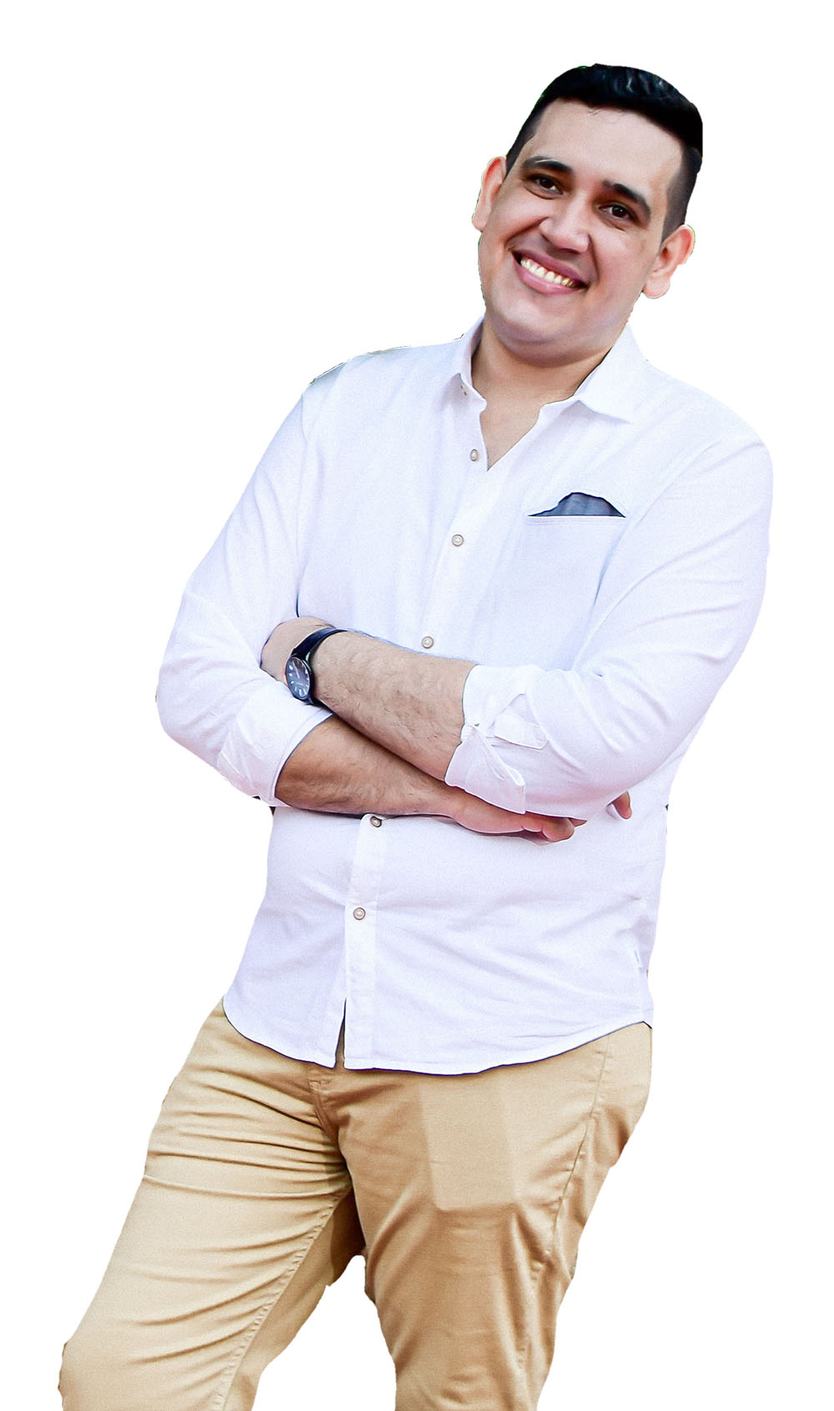
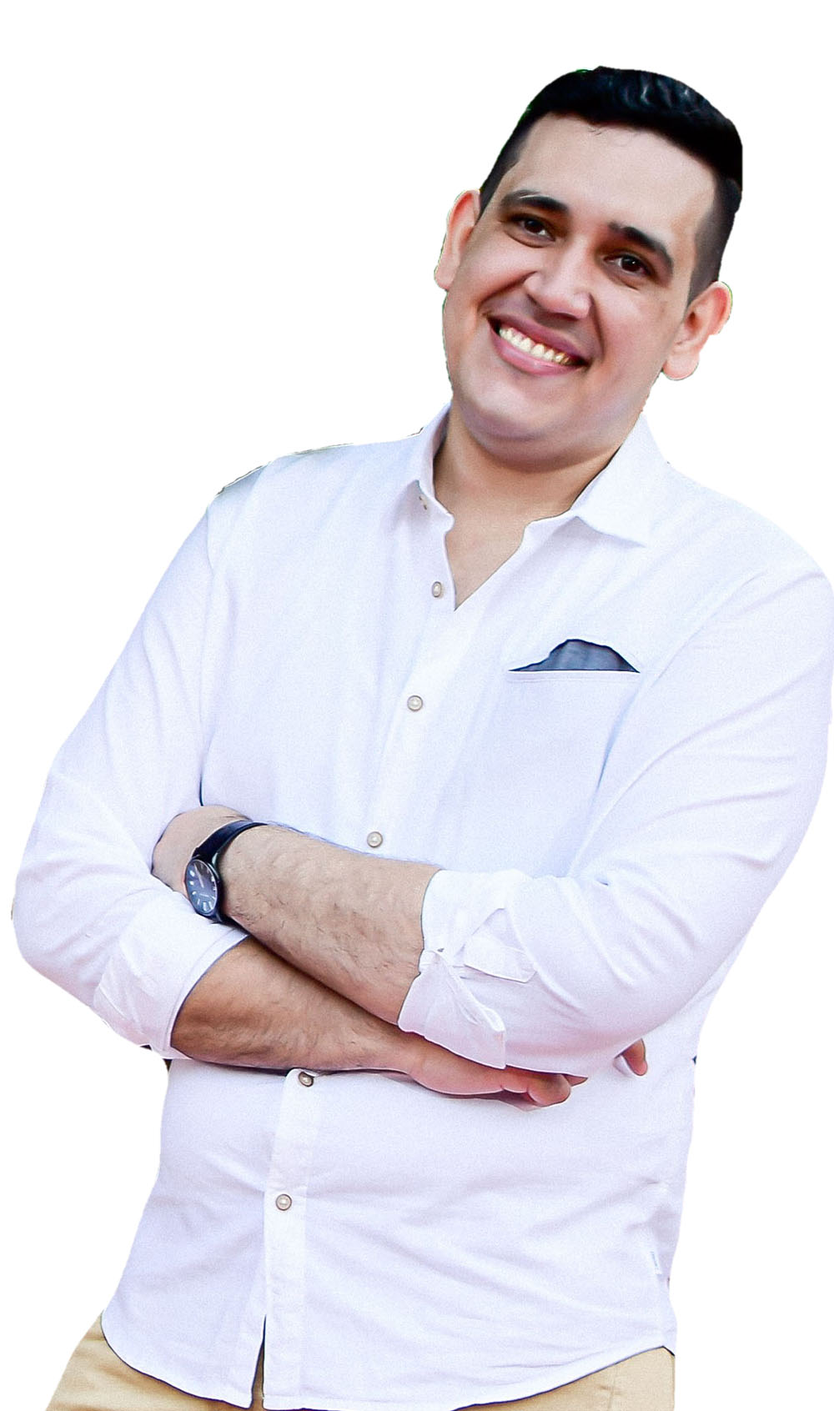
Adding intro-modal, change solo photo

diff --git a/css/styles.min.css b/css/styles.min.css
@@ -1,1 +1,1 @@
-@import url(https://fonts.googleapis.com/css?family=Open+Sans:300italic,400italic,600italic,700italic,800italic,400,300,600,700,800);@import url(https://fonts.googleapis.com/css?family=Merriweather:400,300,400italic,300italic,700,700italic);@import url(https://fonts.googleapis.com/css?family=Nunito:400,300,700);p{font-size:15px;line-height:29px;color:rgba(28,54,83,0.6);padding-bottom:20px}h1{font-size:60px}h2{font-size:40px;font-weight:300;color:#3D4351}h3{color:#3D4351;font-size:18px;font-weight:700;text-transform:uppercase;letter-spacing:3px;line-height:29px}h4{font-size:18px}h5{font-size:15px;color:#3D4351;text-transform:uppercase;font-weight:500}.btn{font-size:13px;border:solid 2px;-moz-border-radius:40px;-webkit-border-radius:40px;border-radius:40px;display:inline-block;text-transform:uppercase}.btn:hover,.btn:focus{color:#fff;border-color:#e8ca6f;background-color:#e8ca6f}.btn-white{font-size:13px;border:solid 2px;-moz-border-radius:40px;-webkit-border-radius:40px;border-radius:40px;display:inline-block;border-color:#fff}.btn-white:hover,.btn-white:focus{color:#e8ca6f;border-color:#e8ca6f}.btn-fill{color:#fff;border:solid 2px #e8ca6f;-moz-border-radius:40px;-webkit-border-radius:40px;border-radius:40px;display:inline-block;text-transform:uppercase;background-color:#e8ca6f}.btn-fill:hover,.btn-fill:focus{color:#fff;background-color:#d3b56a;border-color:#d3b56a}.btn-small{padding:8px 30px}.btn-large{padding:15px 40px}.btn-margin-right{margin-right:20px}section.intro,section.features-extra,section.rsvp{background:#fff}section.features,section.events,section.blog{background:#f8f9fd}.group:after{content:"";display:table;clear:both}.no-padding{padding:0}.no-margin{margin:0}a{color:#e8ca6f;-webkit-transition-timing-function:ease;transition-timing-function:ease;-webkit-transition-duration:200ms;transition-duration:200ms;-webkit-transition-property:color, border-color, background-color;transition-property:color, border-color, background-color}a:hover,a:focus{color:#d3b56a;text-decoration:none}body{font-family:"Open Sans",sans-serif;font-weight:300;color:rgba(28,54,83,0.6);-webkit-text-size-adjust:100%}*:focus{outline:none !important}ul,ol{margin:0;padding:0}ul li{list-style:none}section .header{padding-bottom:30px}.section-padding{padding:40px 0}.section-border{border-bottom:1px solid #E6E9EA}.tooltip{position:absolute;z-index:1070;display:block;font-family:"Helvetica Neue", Helvetica, Arial, sans-serif;font-size:12px;font-weight:normal;line-height:1.4;visibility:visible;filter:alpha(opacity=0);opacity:0}.tooltip.in{filter:alpha(opacity=90);opacity:.9}.tooltip.top{padding:5px 0;margin-top:-3px}.tooltip.right{padding:0 5px;margin-left:3px}.tooltip.bottom{padding:5px 0;margin-top:3px}.tooltip.left{padding:0 5px;margin-left:-3px}.tooltip-inner{max-width:200px;padding:3px 8px;color:#fff;text-align:center;text-decoration:none;text-transform:capitalize;background-color:#000;border-radius:4px}.pulse2{animation-name:pulse2;animation-duration:1s;animation-iteration-count:infinite;animation-timing-function:linear}@keyframes pulse2{0%{transform:scale(1.1)}50%{transform:scale(0.8)}100%{transform:scale(1)}}.floating-arrow{animation-name:floating-arrow;animation-duration:2s;animation-iteration-count:infinite;animation-timing-function:ease-in-out}@keyframes floating-arrow{from{transform:translate(-50%, 0)}65%{transform:translate(-50%, 15px)}to{transform:translate(-50%, 0)}}.floating-logo{animation-name:floating-logo;animation-duration:2s;animation-iteration-count:infinite;animation-timing-function:ease-in-out}@keyframes floating-logo{from{transform:translate(-50%, 0)}50%{transform:translate(-50%, 10px)}to{transform:translate(-50%, 0)}}.wp1,.wp2,.wp3,.wp4,.wp5,.wp6,.wp7,.wp8,.wp9{visibility:hidden}.wp8,.wp9{-webkit-animation-delay:0.3s;animation-delay:0.3s}.bounceInLeft,.bounceInRight,.fadeInUp,.fadeInUpDelay,.fadeInDown,.fadeInUpD,.fadeInLeft,.fadeInRight,.bounceInDown{visibility:visible}.header-nav.open{visibility:visible;opacity:0.9;-webkit-transition:opacity 0.5s;transition:opacity 0.5s}.nav-toggle{position:absolute;top:0;right:15px;z-index:999999;padding:10px 35px 16px 0;cursor:pointer}.nav-toggle:focus{outline:none}.nav-toggle span,.nav-toggle span:before,.nav-toggle span:after{content:"";position:absolute;display:block;width:35px;height:3px;-moz-border-radius:1px;-webkit-border-radius:1px;border-radius:1px;background:#fff;cursor:pointer}.nav-toggle span:before{top:-10px}.nav-toggle span:after{bottom:-10px}.nav-toggle span,.nav-toggle span:before,.nav-toggle span:after{-moz-transition:all 300ms ease-in-out;-o-transition:all 300ms ease-in-out;-webkit-transition:all 300ms ease-in-out;transition:all 300ms ease-in-out}.nav-toggle.active span{background-color:transparent}.nav-toggle.active span:before,.nav-toggle.active span:after{top:0}.nav-toggle.active span:before{-moz-transform:rotate(45deg);-ms-transform:rotate(45deg);-o-transform:rotate(45deg);-webkit-transform:rotate(45deg);transform:rotate(45deg)}.nav-toggle.active span:after{top:10px;-moz-transform:translatey(-10px) rotate(-45deg);-ms-transform:translatey(-10px) rotate(-45deg);-o-transform:translatey(-10px) rotate(-45deg);-webkit-transform:translatey(-10px) rotate(-45deg);transform:translatey(-10px) rotate(-45deg)}.navicon{position:absolute;height:26px;right:10px;top:48px;visibility:hidden;transition:all 300ms ease-in-out}.hero{min-height:750px;background:url("../img/hero-min.jpg") center center;-webkit-background-size:cover;-moz-background-size:cover;-o-background-size:cover;background-size:cover;position:relative}.hero .down-arrow a{color:#fff}.hero h1{color:#fff;margin-bottom:40px}.hero p.intro{color:#fff;font-size:20px;font-weight:300;margin-bottom:80px}.hero .hero-content{padding-top:40%}.hero .hero-content img{width:55%;margin-bottom:12%}.navigation{transition:all 300ms ease-in-out;position:fixed;width:100%;z-index:999}.fixed{position:fixed;background-color:rgba(55,36,40,0.88);z-index:999;width:100%}header{padding:50px 0;border-bottom:solid 1px rgba(255,255,255,0.2);position:relative;width:1170px;margin:0 auto;transition:padding 300ms ease-in-out}header a{color:#fff;text-transform:uppercase;font-size:13px}header a.login{margin-right:20px}header .logo{display:inline-block}header .logo img{height:19px}header ul.primary-nav{margin:0 0 0 75px;padding:0}header ul.primary-nav li{display:inline}header ul.primary-nav li a{color:#fff;padding-right:25px}header ul.primary-nav li a:hover{color:#e8ca6f}header ul.primary-nav li:last-child a{padding-right:0px}header ul.member-actions li{display:inline}header ul.member-actions li a{color:#fff}header ul.member-actions li a:hover{color:#e8ca6f}header .header-nav{display:inline-block}header .member-actions{position:absolute;right:0;top:41px;transition:all 300ms ease-in-out}.down-arrow{color:#fff;font-size:30px;position:absolute;bottom:30px;left:50%;transform:translateX(-50%)}.share-bar{margin-top:20px}.intro span.icon{font-size:40px;color:#e8ca6f;font-weight:bold}.intro-icon{display:inline-block;vertical-align:top;padding:6px 0 0 0;margin-right:20px;width:40px}.intro-content{display:inline-block;width:80%}#intro{padding-top:40px}#intro img{width:100%;height:auto}#intro p{text-align:center}.features{position:relative}.features p{margin-bottom:0;padding-bottom:0}.features h3{margin:0 0 20px 0}.features span.icon{font-size:35px;color:#e8ca6f;font-weight:bold}.features .feature-icon{display:inline-block;vertical-align:top;padding:6px 0 0 0;margin-right:20px;width:35px}.features .feature-content{display:inline-block;width:75%}.features .intro-icon{display:inline-block;vertical-align:top;padding:6px 0 0 0;margin-right:20px}.features .intro-content{display:inline-block;width:80%}.features ul.features-stack{margin-top:50px}.features ul.features-stack li{margin-top:20px;padding-bottom:20px;border-bottom:solid 1px #E6E9EA}.features ul.features-stack li:last-child{padding-bottom:0px;border-bottom:none}.features .ipad-wrap{width:706px;height:1002px;background:url("../img/ipad-device.png") no-repeat center center;z-index:1}.features .iphone-wrap{width:304px;height:620px;background:url("../img/iphone6.png") no-repeat center center;position:absolute;left:530px;bottom:129px;z-index:2}.features .device-showcase{position:absolute;bottom:-365px;right:61%}.features .responsive-feature-img,.features-extra .responsive-feature-img{display:none}.devices{position:relative}.features-extra{position:relative;z-index:3}.features-extra .btn{margin-top:20px}.features-extra .macbook-wrap{position:absolute;width:916px;height:540px;background:url("../img/macbook-pro.png") no-repeat center center;top:114px;z-index:4;left:50%}.hero-strip{margin-top:120px;background:#333844 url("../img/polygonal-bg.jpg") no-repeat center center;padding-bottom:190px;position:relative}.hero-strip i{font-family:"Nunito",sans-serif;font-weight:300;font-size:25px;color:#F69D52;vertical-align:top;margin-left:-8px;font-style:normal}.hero-strip h2{color:#fff;margin:0 0 20px 0}.hero-strip p{color:#ACB1B4}.hero-strip .btn{margin-top:10px}.hero-strip .logo-placeholder{width:230px;height:230px;position:absolute;bottom:-285px;left:50%;transform:translateX(-50%)}.events .leftcol{padding-right:100px;border-right:solid 1px #E6E9EA}.events .rightcol{padding-left:100px}.events .time{font-size:13px;font-style:italic;text-transform:lowercase;color:rgba(28,54,83,0.6)}.blog{padding-bottom:120px}.blog img{width:100%;height:auto;-moz-transition:all 300ms ease-in-out;-o-transition:all 300ms ease-in-out;-webkit-transition:all 300ms ease-in-out;transition:all 300ms ease-in-out}.blog h2{font-size:11px;color:#ACB1B4;font-weight:500;text-transform:uppercase;margin-top:35px}.blog .btn{margin-top:20px}.blog .blog-img-wrap{position:relative;overflow:hidden}.blog .blog-img-wrap .overlay{position:absolute;width:100%;height:100%;background-color:rgba(255,255,255,0.5);-moz-transition:all 300ms ease-in-out;-o-transition:all 300ms ease-in-out;-webkit-transition:all 300ms ease-in-out;transition:all 300ms ease-in-out;-ms-filter:"progid:DXImageTransform.Microsoft.Alpha(Opacity=0)";filter:alpha(opacity=0);opacity:0}.blog .blog-img-wrap i{color:#fff;font-size:20px;position:absolute;width:20px;height:20px;top:25px;right:35px}.blog .blog-img-wrap:hover img,.blog .blog-img-wrap:focus img{-moz-transform:scale(1.1);-ms-transform:scale(1.1);-o-transform:scale(1.1);-webkit-transform:scale(1.1);transform:scale(1.1)}.blog .blog-img-wrap:hover .overlay,.blog .blog-img-wrap:focus .overlay{-ms-filter:"progid:DXImageTransform.Microsoft.Alpha(Opacity=1)";filter:alpha(opacity=1);opacity:1;z-index:9}.blog figcaption i{margin-left:5px;font-size:15px}.blog figcaption a.blog-post-title{color:rgba(28,54,83,0.6)}.blog figcaption a.blog-post-title:hover,.blog figcaption a.blog-post-title:focus{color:#3D4351}#instagram img{width:100%}#eng-pics img{width:100%;height:auto;-moz-transition:all 300ms ease-in-out;-o-transition:all 300ms ease-in-out;-webkit-transition:all 300ms ease-in-out;transition:all 300ms ease-in-out}#eng-pics .img-wrap{position:relative;overflow:hidden;border-radius:4px}#eng-pics .img-wrap .overlay{position:absolute;width:100%;height:100%;background-color:rgba(255,255,255,0.5);-moz-transition:all 300ms ease-in-out;-o-transition:all 300ms ease-in-out;-webkit-transition:all 300ms ease-in-out;transition:all 300ms ease-in-out;-ms-filter:"progid:DXImageTransform.Microsoft.Alpha(Opacity=0)";filter:alpha(opacity=0);opacity:0}#eng-pics .img-wrap i{color:#fff;font-size:15px;position:absolute;width:15px;height:15px;top:6px;right:6px}#eng-pics .img-wrap:hover img,#eng-pics .img-wrap:focus img{-moz-transform:scale(1.1);-ms-transform:scale(1.1);-o-transform:scale(1.1);-webkit-transform:scale(1.1);transform:scale(1.1)}#eng-pics .img-wrap:hover .overlay,#eng-pics .img-wrap:focus .overlay{-ms-filter:"progid:DXImageTransform.Microsoft.Alpha(Opacity=1)";filter:alpha(opacity=1);opacity:1;z-index:9}#eng-pics .diamond{width:230px;height:230px;position:absolute;bottom:-145px;left:50%;transform:translateX(-50%);z-index:500}#eng-pics .ring{width:75px;height:75px;border-radius:75px;border:10px solid #d0d3d4;position:absolute;left:34%;top:75%;z-index:-1}#video-bg{height:300px}#video-content{width:100%;height:100%;padding-top:30px;padding-bottom:10px;position:relative;background:rgba(248, 249, 253, 1);text-align:center}#video-content h5{font-size:30px;font-weight:600;letter-spacing:10px}#video-content h3{font-size:20px;font-weight:200;letter-spacing:8px}#map-canvas{height:500px;width:100%}#map-content-wrapper{position:relative;margin-top:-502px;margin-bottom:150px}#map-content{margin-top:40px;padding:50px 60px;background:#fff;-webkit-transition:opacity 0.5s, visibility 0.6s, margin-top 0.5s;transition:opacity 0.5s, visibility 0.6s, margin-top 0.5s}#btn-show-content{padding:20px;background:#fff;cursor:pointer;display:inline-block;-webkit-transition:opacity 0.5s, visibility 0.6s, margin-top 0.5s;transition:opacity 0.5s, visibility 0.6s, margin-top 0.5s}.toggle-map-content{opacity:0;visibility:hidden}.pointer-events-none{pointer-events:none}.pointer-events-auto{pointer-events:auto}.rsvp{padding-bottom:140px;margin-top: 40px;}.rsvp .rsvp-form .rsvp-btn{padding:15px 0;border-radius:3px;width:100%;font-size:13px}.rsvp .rsvp-form .form-input-group{width:100%;height:55px;margin:0 auto 10px;-moz-border-radius:5px;-webkit-border-radius:5px;border-radius:5px;border:solid 1px #E6E9EA;text-align:left;position:relative}.rsvp .rsvp-form .form-input-group i{color:#e8ca6f;font-size:14px}.rsvp .rsvp-form .form-input-group i:after{content:"";height:30px;width:1px;border-right:solid 1px #E6E9EA;position:absolute;top:50%;left:30px;transform:translateY(-50%)}.rsvp .rsvp-form .form-input-group i.fa-user,.rsvp .rsvp-form .form-input-group i.fa-phone,.rsvp .rsvp-form .form-input-group i.fa-users,.rsvp .rsvp-form .form-input-group i.fa-envelope,.rsvp .rsvp-form .form-input-group .fa-key{font-size:14px;position:absolute;top:50%;transform:translateY(-50%);margin-left:20px}.rsvp .rsvp-form .form-input-group option{color:#e8ca6f;font-size:14px} .rsvp .rsvp-form .form-input-group option:after{content:"";height:30px;width:1px;border-right:solid 1px #E6E9EA;position:absolute;top:50%;left:30px;transform:translateY(-50%)}.rsvp .rsvp-form .form-input-group input{padding-left:68px;width:100%;height:100%;-moz-border-radius:6px;-webkit-border-radius:6px;border-radius:6px;border:none}.rsvp .rsvp-form .form-input-group input::-webkit-input-placeholder{color:#BCC1C3}.rsvp .rsvp-form .form-input-group input:-moz-placeholder{color:#BCC1C3}.rsvp .rsvp-form .form-input-group input::-moz-placeholder{color:#BCC1C3}.rsvp .rsvp-form .form-input-group input:-ms-input-placeholder{color:#BCC1C3}footer .content{border-top:1px solid #E6E9EA;padding-bottom:20px}footer .to-top-wrapper{font-size:30px;display:block;cursor:pointer;margin:-25px auto 50px;border-radius:50%;width:50px;height:50px;border:1px solid #E6E9EA;background:#fff}footer .to-top-wrapper .to-top{display:block;-webkit-transition:all .3s ease-in-out;-moz-transition:all .3s ease-in-out;-ms-transition:all .3s ease-in-out;-o-transition:all .3s ease-in-out;transition:all .3s ease-in-out}footer .to-top-wrapper .to-top:hover{margin-top:-5px}footer span.fa-heart{color:#ff415c;font-size:18px;margin:0 2px}body.modal-open{padding-right:0 !important}.modal-body{padding:25px}
+@import url(https://fonts.googleapis.com/css?family=Open+Sans:300italic,400italic,600italic,700italic,800italic,400,300,600,700,800);@import url(https://fonts.googleapis.com/css?family=Merriweather:400,300,400italic,300italic,700,700italic);@import url(https://fonts.googleapis.com/css?family=Nunito:400,300,700);p{font-size:15px;line-height:29px;color:rgba(28,54,83,0.6);padding-bottom:20px}h1{font-size:60px}h2{font-size:40px;font-weight:300;color:#3D4351}h3{color:#3D4351;font-size:18px;font-weight:700;text-transform:uppercase;letter-spacing:3px;line-height:29px}h4{font-size:18px}h5{font-size:15px;color:#3D4351;text-transform:uppercase;font-weight:500}.btn{font-size:13px;border:solid 2px;-moz-border-radius:40px;-webkit-border-radius:40px;border-radius:40px;display:inline-block;text-transform:uppercase}.btn:hover,.btn:focus{color:#fff;border-color:#e8ca6f;background-color:#e8ca6f}.btn-white{font-size:13px;border:solid 2px;-moz-border-radius:40px;-webkit-border-radius:40px;border-radius:40px;display:inline-block;border-color:#fff}.btn-white:hover,.btn-white:focus{color:#e8ca6f;border-color:#e8ca6f}.btn-fill{color:#fff;border:solid 2px #e8ca6f;-moz-border-radius:40px;-webkit-border-radius:40px;border-radius:40px;display:inline-block;text-transform:uppercase;background-color:#e8ca6f}.btn-fill:hover,.btn-fill:focus{color:#fff;background-color:#d3b56a;border-color:#d3b56a}.btn-small{padding:8px 30px}.btn-large{padding:15px 40px}.btn-margin-right{margin-right:20px}section.intro,section.features-extra,section.rsvp{background:#fff}section.features,section.events,section.blog{background:#f8f9fd}.group:after{content:"";display:table;clear:both}.no-padding{padding:0}.no-margin{margin:0}a{color:#e8ca6f;-webkit-transition-timing-function:ease;transition-timing-function:ease;-webkit-transition-duration:200ms;transition-duration:200ms;-webkit-transition-property:color, border-color, background-color;transition-property:color, border-color, background-color}a:hover,a:focus{color:#d3b56a;text-decoration:none}body{font-family:"Open Sans",sans-serif;font-weight:300;color:rgba(28,54,83,0.6);-webkit-text-size-adjust:100%}*:focus{outline:none !important}ul,ol{margin:0;padding:0}ul li{list-style:none}section .header{padding-bottom:30px}.section-padding{padding:40px 0}.section-border{border-bottom:1px solid #E6E9EA}.tooltip{position:absolute;z-index:1070;display:block;font-family:"Helvetica Neue", Helvetica, Arial, sans-serif;font-size:12px;font-weight:normal;line-height:1.4;visibility:visible;filter:alpha(opacity=0);opacity:0}.tooltip.in{filter:alpha(opacity=90);opacity:.9}.tooltip.top{padding:5px 0;margin-top:-3px}.tooltip.right{padding:0 5px;margin-left:3px}.tooltip.bottom{padding:5px 0;margin-top:3px}.tooltip.left{padding:0 5px;margin-left:-3px}.tooltip-inner{max-width:200px;padding:3px 8px;color:#fff;text-align:center;text-decoration:none;text-transform:capitalize;background-color:#000;border-radius:4px}.pulse2{animation-name:pulse2;animation-duration:1s;animation-iteration-count:infinite;animation-timing-function:linear}@keyframes pulse2{0%{transform:scale(1.1)}50%{transform:scale(0.8)}100%{transform:scale(1)}}.floating-arrow{animation-name:floating-arrow;animation-duration:2s;animation-iteration-count:infinite;animation-timing-function:ease-in-out}@keyframes floating-arrow{from{transform:translate(-50%, 0)}65%{transform:translate(-50%, 15px)}to{transform:translate(-50%, 0)}}.floating-logo{animation-name:floating-logo;animation-duration:2s;animation-iteration-count:infinite;animation-timing-function:ease-in-out}@keyframes floating-logo{from{transform:translate(-50%, 0)}50%{transform:translate(-50%, 10px)}to{transform:translate(-50%, 0)}}.wp1,.wp2,.wp3,.wp4,.wp5,.wp6,.wp7,.wp8,.wp9{visibility:hidden}.wp8,.wp9{-webkit-animation-delay:0.3s;animation-delay:0.3s}.bounceInLeft,.bounceInRight,.fadeInUp,.fadeInUpDelay,.fadeInDown,.fadeInUpD,.fadeInLeft,.fadeInRight,.bounceInDown{visibility:visible}.header-nav.open{visibility:visible;opacity:0.9;-webkit-transition:opacity 0.5s;transition:opacity 0.5s}.nav-toggle{position:absolute;top:0;right:15px;z-index:999999;padding:10px 35px 16px 0;cursor:pointer}.nav-toggle:focus{outline:none}.nav-toggle span,.nav-toggle span:before,.nav-toggle span:after{content:"";position:absolute;display:block;width:35px;height:3px;-moz-border-radius:1px;-webkit-border-radius:1px;border-radius:1px;background:#fff;cursor:pointer}.nav-toggle span:before{top:-10px}.nav-toggle span:after{bottom:-10px}.nav-toggle span,.nav-toggle span:before,.nav-toggle span:after{-moz-transition:all 300ms ease-in-out;-o-transition:all 300ms ease-in-out;-webkit-transition:all 300ms ease-in-out;transition:all 300ms ease-in-out}.nav-toggle.active span{background-color:transparent}.nav-toggle.active span:before,.nav-toggle.active span:after{top:0}.nav-toggle.active span:before{-moz-transform:rotate(45deg);-ms-transform:rotate(45deg);-o-transform:rotate(45deg);-webkit-transform:rotate(45deg);transform:rotate(45deg)}.nav-toggle.active span:after{top:10px;-moz-transform:translatey(-10px) rotate(-45deg);-ms-transform:translatey(-10px) rotate(-45deg);-o-transform:translatey(-10px) rotate(-45deg);-webkit-transform:translatey(-10px) rotate(-45deg);transform:translatey(-10px) rotate(-45deg)}.navicon{position:absolute;height:26px;right:10px;top:48px;visibility:hidden;transition:all 300ms ease-in-out}.hero{min-height:750px;background:url("../img/hero-min.jpg") center center;-webkit-background-size:cover;-moz-background-size:cover;-o-background-size:cover;background-size:cover;position:relative}.hero .down-arrow a{color:#fff}.hero h1{color:#fff;margin-bottom:40px}.hero p.intro{color:#fff;font-size:20px;font-weight:300;margin-bottom:80px}.hero .hero-content{padding-top:40%}.hero .hero-content img{width:55%;margin-bottom:12%}.navigation{transition:all 300ms ease-in-out;position:fixed;width:100%;z-index:999}.fixed{position:fixed;background-color:rgba(55,36,40,0.88);z-index:999;width:100%}header{padding:50px 0;border-bottom:solid 1px rgba(255,255,255,0.2);position:relative;width:1170px;margin:0 auto;transition:padding 300ms ease-in-out}header a{color:#fff;text-transform:uppercase;font-size:13px}header a.login{margin-right:20px}header .logo{display:inline-block}header .logo img{height:19px}header ul.primary-nav{margin:0 0 0 75px;padding:0}header ul.primary-nav li{display:inline}header ul.primary-nav li a{color:#fff;padding-right:25px}header ul.primary-nav li a:hover{color:#e8ca6f}header ul.primary-nav li:last-child a{padding-right:0px}header ul.member-actions li{display:inline}header ul.member-actions li a{color:#fff}header ul.member-actions li a:hover{color:#e8ca6f}header .header-nav{display:inline-block}header .member-actions{position:absolute;right:0;top:41px;transition:all 300ms ease-in-out}.down-arrow{color:#fff;font-size:30px;position:absolute;bottom:30px;left:50%;transform:translateX(-50%)}.share-bar{margin-top:20px}.intro span.icon{font-size:40px;color:#e8ca6f;font-weight:bold}.intro-icon{display:inline-block;vertical-align:top;padding:6px 0 0 0;margin-right:20px;width:40px}.intro-content{display:inline-block;width:80%}#intro{padding-top:40px}#intro img{width:100%;height:auto}#intro p{text-align:center}.features{position:relative}.features p{margin-bottom:0;padding-bottom:0}.features h3{margin:0 0 20px 0}.features span.icon{font-size:35px;color:#e8ca6f;font-weight:bold}.features .feature-icon{display:inline-block;vertical-align:top;padding:6px 0 0 0;margin-right:20px;width:35px}.features .feature-content{display:inline-block;width:75%}.features .intro-icon{display:inline-block;vertical-align:top;padding:6px 0 0 0;margin-right:20px}.features .intro-content{display:inline-block;width:80%}.features ul.features-stack{margin-top:50px}.features ul.features-stack li{margin-top:20px;padding-bottom:20px;border-bottom:solid 1px #E6E9EA}.features ul.features-stack li:last-child{padding-bottom:0px;border-bottom:none}.features .ipad-wrap{width:706px;height:1002px;background:url("../img/ipad-device.png") no-repeat center center;z-index:1}.features .iphone-wrap{width:304px;height:620px;background:url("../img/iphone6.png") no-repeat center center;position:absolute;left:530px;bottom:129px;z-index:2}.features .device-showcase{position:absolute;bottom:-365px;right:61%}.features .responsive-feature-img,.features-extra .responsive-feature-img{display:none}.devices{position:relative}.features-extra{position:relative;z-index:3}.features-extra .btn{margin-top:20px}.features-extra .macbook-wrap{position:absolute;width:916px;height:540px;background:url("../img/macbook-pro.png") no-repeat center center;top:114px;z-index:4;left:50%}.hero-strip{margin-top:120px;background:#333844 url("../img/polygonal-bg.jpg") no-repeat center center;padding-bottom:190px;position:relative}.hero-strip i{font-family:"Nunito",sans-serif;font-weight:300;font-size:25px;color:#F69D52;vertical-align:top;margin-left:-8px;font-style:normal}.hero-strip h2{color:#fff;margin:0 0 20px 0}.hero-strip p{color:#ACB1B4}.hero-strip .btn{margin-top:10px}.hero-strip .logo-placeholder{width:230px;height:230px;position:absolute;bottom:-285px;left:50%;transform:translateX(-50%)}.events .leftcol{padding-right:100px;border-right:solid 1px #E6E9EA}.events .rightcol{padding-left:100px}.events .time{font-size:13px;font-style:italic;text-transform:lowercase;color:rgba(28,54,83,0.6)}.blog{padding-bottom:120px}.blog img{width:100%;height:auto;-moz-transition:all 300ms ease-in-out;-o-transition:all 300ms ease-in-out;-webkit-transition:all 300ms ease-in-out;transition:all 300ms ease-in-out}.blog h2{font-size:11px;color:#ACB1B4;font-weight:500;text-transform:uppercase;margin-top:35px}.blog .btn{margin-top:20px}.blog .blog-img-wrap{position:relative;overflow:hidden}.blog .blog-img-wrap .overlay{position:absolute;width:100%;height:100%;background-color:rgba(255,255,255,0.5);-moz-transition:all 300ms ease-in-out;-o-transition:all 300ms ease-in-out;-webkit-transition:all 300ms ease-in-out;transition:all 300ms ease-in-out;-ms-filter:"progid:DXImageTransform.Microsoft.Alpha(Opacity=0)";filter:alpha(opacity=0);opacity:0}.blog .blog-img-wrap i{color:#fff;font-size:20px;position:absolute;width:20px;height:20px;top:25px;right:35px}.blog .blog-img-wrap:hover img,.blog .blog-img-wrap:focus img{-moz-transform:scale(1.1);-ms-transform:scale(1.1);-o-transform:scale(1.1);-webkit-transform:scale(1.1);transform:scale(1.1)}.blog .blog-img-wrap:hover .overlay,.blog .blog-img-wrap:focus .overlay{-ms-filter:"progid:DXImageTransform.Microsoft.Alpha(Opacity=1)";filter:alpha(opacity=1);opacity:1;z-index:9}.blog figcaption i{margin-left:5px;font-size:15px}.blog figcaption a.blog-post-title{color:rgba(28,54,83,0.6)}.blog figcaption a.blog-post-title:hover,.blog figcaption a.blog-post-title:focus{color:#3D4351}#instagram img{width:100%}#eng-pics img{width:100%;height:auto;-moz-transition:all 300ms ease-in-out;-o-transition:all 300ms ease-in-out;-webkit-transition:all 300ms ease-in-out;transition:all 300ms ease-in-out}#eng-pics .img-wrap{position:relative;overflow:hidden;border-radius:4px}#eng-pics .img-wrap .overlay{position:absolute;width:100%;height:100%;background-color:rgba(255,255,255,0.5);-moz-transition:all 300ms ease-in-out;-o-transition:all 300ms ease-in-out;-webkit-transition:all 300ms ease-in-out;transition:all 300ms ease-in-out;-ms-filter:"progid:DXImageTransform.Microsoft.Alpha(Opacity=0)";filter:alpha(opacity=0);opacity:0}#eng-pics .img-wrap i{color:#fff;font-size:15px;position:absolute;width:15px;height:15px;top:6px;right:6px}#eng-pics .img-wrap:hover img,#eng-pics .img-wrap:focus img{-moz-transform:scale(1.1);-ms-transform:scale(1.1);-o-transform:scale(1.1);-webkit-transform:scale(1.1);transform:scale(1.1)}#eng-pics .img-wrap:hover .overlay,#eng-pics .img-wrap:focus .overlay{-ms-filter:"progid:DXImageTransform.Microsoft.Alpha(Opacity=1)";filter:alpha(opacity=1);opacity:1;z-index:9}#eng-pics .diamond{width:230px;height:230px;position:absolute;bottom:-145px;left:50%;transform:translateX(-50%);z-index:500}#eng-pics .ring{width:75px;height:75px;border-radius:75px;border:10px solid #d0d3d4;position:absolute;left:34%;top:75%;z-index:-1}#video-bg{height:300px}#video-content{width:100%;height:100%;padding-top:30px;padding-bottom:10px;position:relative;background:rgba(248, 249, 253, 1);text-align:center}#video-content h5{font-size:30px;font-weight:600;letter-spacing:10px}#video-content h3{font-size:20px;font-weight:200;letter-spacing:8px}#map-canvas{height:500px;width:100%}#map-content-wrapper{position:relative;margin-top:-502px;margin-bottom:150px}#map-content{margin-top:40px;padding:50px 60px;background:#fff;-webkit-transition:opacity 0.5s, visibility 0.6s, margin-top 0.5s;transition:opacity 0.5s, visibility 0.6s, margin-top 0.5s}#btn-show-content{padding:20px;background:#fff;cursor:pointer;display:inline-block;-webkit-transition:opacity 0.5s, visibility 0.6s, margin-top 0.5s;transition:opacity 0.5s, visibility 0.6s, margin-top 0.5s}.toggle-map-content{opacity:0;visibility:hidden}.pointer-events-none{pointer-events:none}.pointer-events-auto{pointer-events:auto}.rsvp{padding-bottom:140px;margin-top: 40px;}.rsvp .rsvp-form .rsvp-btn{padding:15px 0;border-radius:3px;width:100%;font-size:13px}.rsvp .rsvp-form .form-input-group{width:100%;height:55px;margin:0 auto 10px;-moz-border-radius:5px;-webkit-border-radius:5px;border-radius:5px;border:solid 1px #E6E9EA;text-align:left;position:relative}.rsvp .rsvp-form .form-input-group i{color:#e8ca6f;font-size:14px}.rsvp .rsvp-form .form-input-group i:after{content:"";height:30px;width:1px;border-right:solid 1px #E6E9EA;position:absolute;top:50%;left:30px;transform:translateY(-50%)}.rsvp .rsvp-form .form-input-group i.fa-user,.rsvp .rsvp-form .form-input-group i.fa-phone,.rsvp .rsvp-form .form-input-group i.fa-users,.rsvp .rsvp-form .form-input-group i.fa-envelope,.rsvp .rsvp-form .form-input-group .fa-key{font-size:14px;position:absolute;top:50%;transform:translateY(-50%);margin-left:20px}.rsvp .rsvp-form .form-input-group option{color:#e8ca6f;font-size:14px} .rsvp .rsvp-form .form-input-group option:after{content:"";height:30px;width:1px;border-right:solid 1px #E6E9EA;position:absolute;top:50%;left:30px;transform:translateY(-50%)}.rsvp .rsvp-form .form-input-group input{padding-left:68px;width:100%;height:100%;-moz-border-radius:6px;-webkit-border-radius:6px;border-radius:6px;border:none}.rsvp .rsvp-form .form-input-group input::-webkit-input-placeholder{color:#BCC1C3}.rsvp .rsvp-form .form-input-group input:-moz-placeholder{color:#BCC1C3}.rsvp .rsvp-form .form-input-group input::-moz-placeholder{color:#BCC1C3}.rsvp .rsvp-form .form-input-group input:-ms-input-placeholder{color:#BCC1C3}footer .content{border-top:1px solid #E6E9EA;padding-bottom:20px}footer .to-top-wrapper{font-size:30px;display:block;cursor:pointer;margin:-25px auto 50px;border-radius:50%;width:50px;height:50px;border:1px solid #E6E9EA;background:#fff}footer .to-top-wrapper .to-top{display:block;-webkit-transition:all .3s ease-in-out;-moz-transition:all .3s ease-in-out;-ms-transition:all .3s ease-in-out;-o-transition:all .3s ease-in-out;transition:all .3s ease-in-out}footer .to-top-wrapper .to-top:hover{margin-top:-5px}footer span.fa-heart{color:#ff415c;font-size:18px;margin:0 2px}body.modal-open{padding-right:0 !important}.modal-body{padding:25px}#intro-modal p{margin-right: 40px;margin-left: 40px;}

diff --git a/index.html b/index.html
@@ -87,7 +87,6 @@
     </div>
     <div class="down-arrow floating-arrow"><a href="#invitation"><i class="fa fa-angle-down"></i></a></div>
 </section>
-
 <section id="invitation" class="section-padding">
     <div class="container">
         <div class="row">
@@ -150,10 +149,10 @@
                 <div class="wp3">
 
                     <h5><strong>Ceremonia</strong> <span class="time">7PM - 8PM</span></h5>
-                    <p>La ceremonia de matrimonio se realizará bajo la iglesia catolica,
-                        esta se llevará a cabo en la iglesia Santa Teresita del Niño Jesus de la 
-                        ciudad de Barranquilla, y será oficiada por el Sacerdote Andres Felipe Gonzalez.
-                        La ceremonía tendrá una duración aproximada de 1 hora y se le solicita a los invitados
+                    <p>La ceremonia de matrimonio se realizará bajo la iglesia católica,
+                        esta se llevará a cabo en la Parroquia Santa Teresita del Niño Jesus de la 
+                        ciudad de Barranquilla, y será oficiada por el Sacerdote Andres Felipe González.
+                        La ceremonía tendrá una duración aproximada de 1 hora y se pide a los invitados
                         presenciales estar 15 min antes de dar inicio, así mismo a los participantes
                         de la ceremonia virtual conectarse 15 min antes de la hora del evento.</p>
                 </div>
@@ -163,7 +162,7 @@
 
                     <h5><strong>recepción</strong> <span class="time">8PM-2AM</span></h5>
                     <p>La recepción será ofrecida en el salón de eventos Daltone House de la ciudad
-                        de Barranquilla, donde los novios ofreceran bedidas y alimentos a sus invitados
+                        de Barranquilla, donde los novios ofrecerán bebidas y alimentos a sus invitados
                         para celebrar la unión. El evento se abrirá con el primer baile de la pareja y seguido
                         de un brindis como agradecimiento.</p>
                 </div>
@@ -494,5 +493,29 @@
     ga('create', 'UA-46465113-4', 'auto');
     ga('send', 'pageview');
 </script>
+
+<div id="intro-modal" class="modal fade" tabindex="-1" role="dialog">
+    <div class="modal-dialog" role="document">
+        <div class="modal-content">
+            <div class="modal-body">
+                <button type="button" class="close" data-dismiss="modal" aria-label="Close"><span>&times;</span>
+                </button>
+                <h3 class="text-center section-padding">HOLA A TODOS</h3>
+                <p>
+                    Estamos muy felices de compartir con todos ustedes este gran momento de
+                    nuestras vidas, ya se acerca el gran día donde uniremos nuestros corazones
+                    bajo la bendición de Dios. Nada nos haría más felices  que poder contar con
+                    la compañía de todos, pero debido a la situación actual y la emergencia sanitaria
+                    producto del Covid-19 tenemos una limitante de cupos. Por esta razón tenemos dos
+                    modalidades de invitación presencial y virtual, en la sección de RSVP puedes confirmar
+                    tu asistencia. Queremos que todos nos acompañen, si recibiste el código de invitación 
+                    presencial escoge la opción presencial ingresa el código y busca tu invitación; de lo
+                    contrario envía tu invitación virtual y nosotros te enviaremos dentro de poco el
+                    acceso a la ceremonia virtual. Un fuerte abrazo.
+                </p>
+            </div>
+        </div><!-- /.modal-content -->
+    </div><!-- /.modal-dialog -->
+</div><!-- /.modal -->
 </body>
 </html>

diff --git a/js/scripts.js b/js/scripts.js
@@ -1,6 +1,6 @@
 $(document).ready(function () {
 //    $('#gran_contenedor').hide()
-    $('#invite_code').hide() 
+    $('#intro-modal').appendTo("body").modal('show');
     /***************** Waypoints ******************/
 
     $('.wp1').waypoint(function () {
